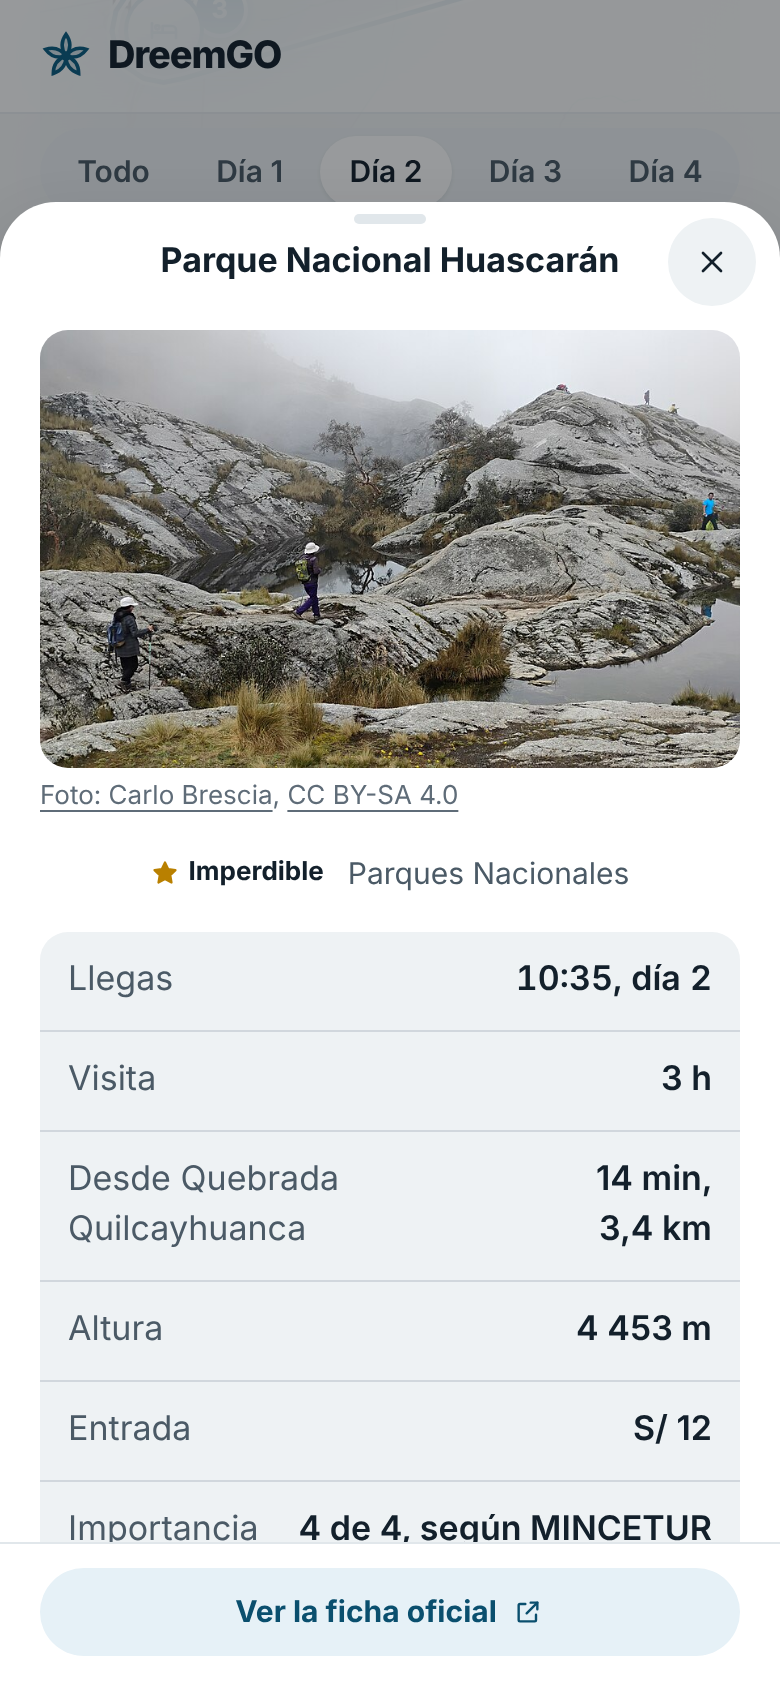
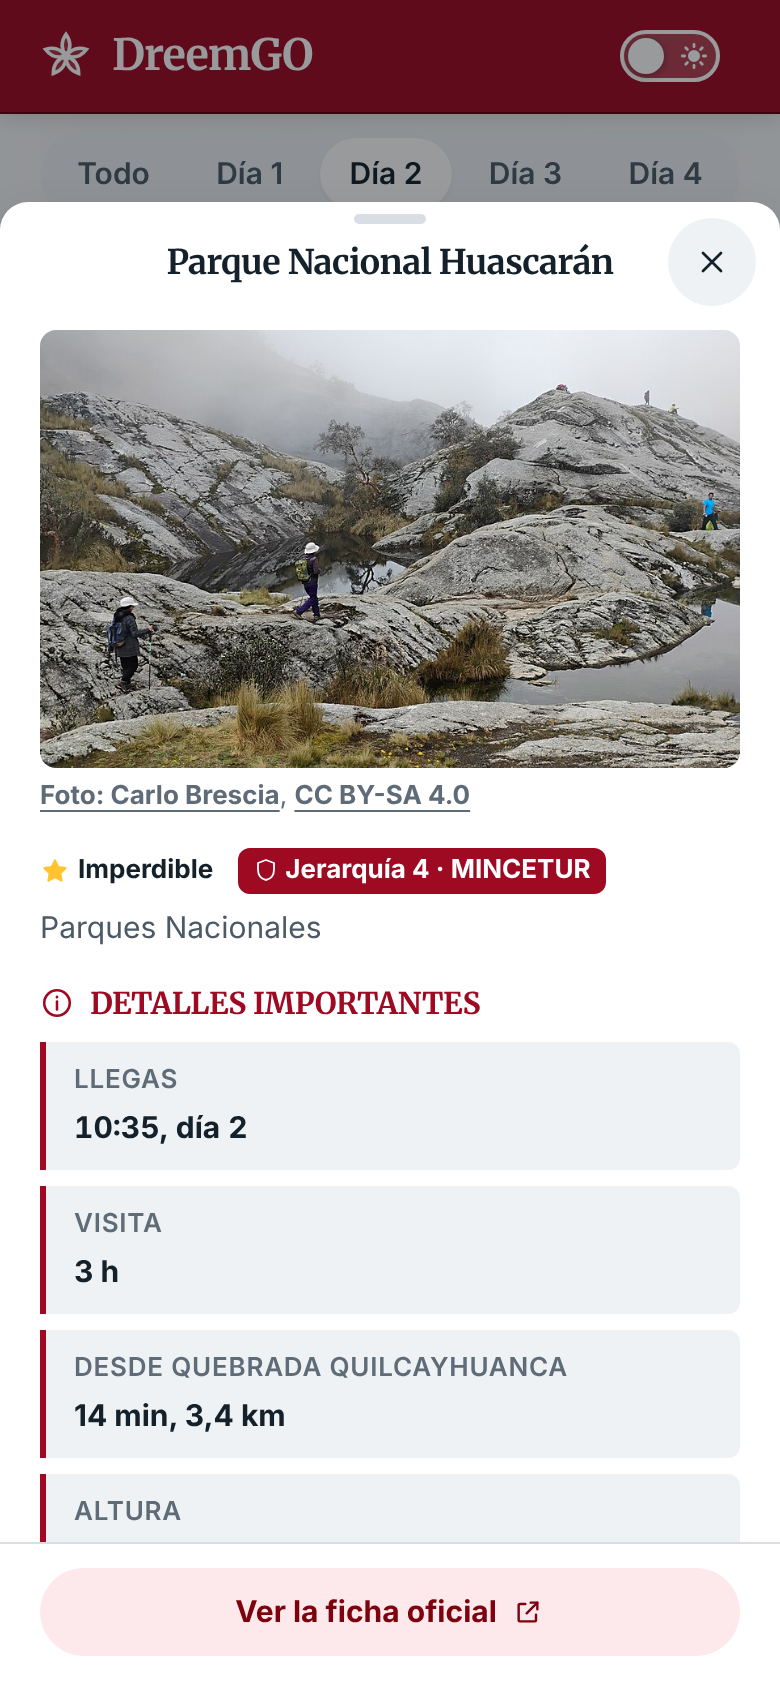
docs(week10): las capturas con el frontend nuevo

diff --git a/deliveries/week10/capturas/README.md b/deliveries/week10/capturas/README.md
@@ -1,10 +1,10 @@
 # Capturas de la demostración
 
-La app compilada igual que la publicada, contra el API con los datos `2026.10.8` y el contrato 1.7, el 20 de octubre de 2026. Las de celular son de 390 × 844 puntos y las de escritorio, de 1 440 × 900. Las fotos son de Wikimedia Commons, con su autor y su licencia a la vista.
+La app compilada igual que la publicada, con el frontend nuevo, contra el API con los datos `2026.10.8` y el contrato 1.7, el 25 de octubre de 2026. Las de celular son de 390 × 844 puntos y las de escritorio, de 1 440 × 900. Las fotos son de Wikimedia Commons, con su autor y su licencia a la vista.
 
 | Archivo | Qué muestra |
 |---|---|
-| `01_consulta_celular.png` | El formulario: desde Lima, 4 días en julio, naturaleza y caminatas, hasta S/ 1 000. Con «A dónde» y los vuelos |
+| `01_consulta_celular.png` | El formulario, debajo del carrusel del inicio: desde Lima, 4 días en julio, naturaleza y caminatas, hasta S/ 1 000. Con «A dónde» y los vuelos |
 | `02_tres_viajes_celular.png` | Los tres viajes de esa consulta: Íllimo y Huaraz, en bus de noche, y Huacho |
 | `03_viaje_huaraz_celular.png` | El viaje a Huaraz: su foto, su costo, las horas desde Lima en bus de noche, el clima de julio y por qué conviene |
 | `04_plan_y_mapa_celular.png` | El plan día por día con su mapa: un pétalo por día, y el día 1, tranquilo para acostumbrarse a la altura |
@@ -15,7 +15,7 @@ La app compilada igual que la publicada, contra el API con los datos `2026.10.8`
 | `09_a_donde_celular.png` | «A dónde»: buscar Machu Picchu entre las zonas |
 | `10_asi_no_cabe_celular.png` | Machu Picchu en 2 días no cabe: el motor dice por qué y con qué cambio sale |
 | `11_machu_picchu_celular.png` | Con 4 días, el viaje a Machupicchu Pueblo, en avión y en tren |
-| `12_tema_oscuro_celular.png` | El tema oscuro: desde Lima, 6 días en julio, con vuelo al Cusco |
+| `12_tema_oscuro_celular.png` | El tema oscuro, elegido con su botón: desde Lima, 6 días en julio, con vuelo al Cusco |
 | `13_como_funciona_celular.png` | «Cómo funciona»: de dónde salen los datos y cómo decide el motor |
 | `14_lima_julio_escritorio.png` | En escritorio, la consulta de julio |
 | `15_lima_febrero_escritorio.png` | La misma consulta en febrero: Huaraz ya no sale, porque es temporada de lluvias |
@@ -27,5 +27,7 @@ La app compilada igual que la publicada, contra el API con los datos `2026.10.8`
 | `21_fiestas_escritorio.png` | El calendario de fiestas de julio, con «Ir a esta fiesta» |
 | `22_publicar_escritorio.png` | Un municipio publica un evento, con su lugar marcado en el mapa |
 | `23_evento_publicado_escritorio.png` | El evento publicado, como lo ve el viajero |
+| `24_inicio_celular.png` | El inicio en el celular: el carrusel de destinos en el Cusco, con el crédito de su foto, y el comienzo del formulario |
+| `25_inicio_escritorio.png` | El inicio en escritorio: el carrusel, con su caligrafía, sus mandos y el crédito de la foto |
 
-El evento de las dos últimas es de prueba: se publicó en un API local, no en el publicado.
+El evento de la 22 y la 23 es de prueba: se publicó en un API local, no en el publicado. Las capturas se toman con el movimiento reducido, así que el carrusel sale detenido en su primera diapositiva, con el botón para reanudarlo.
